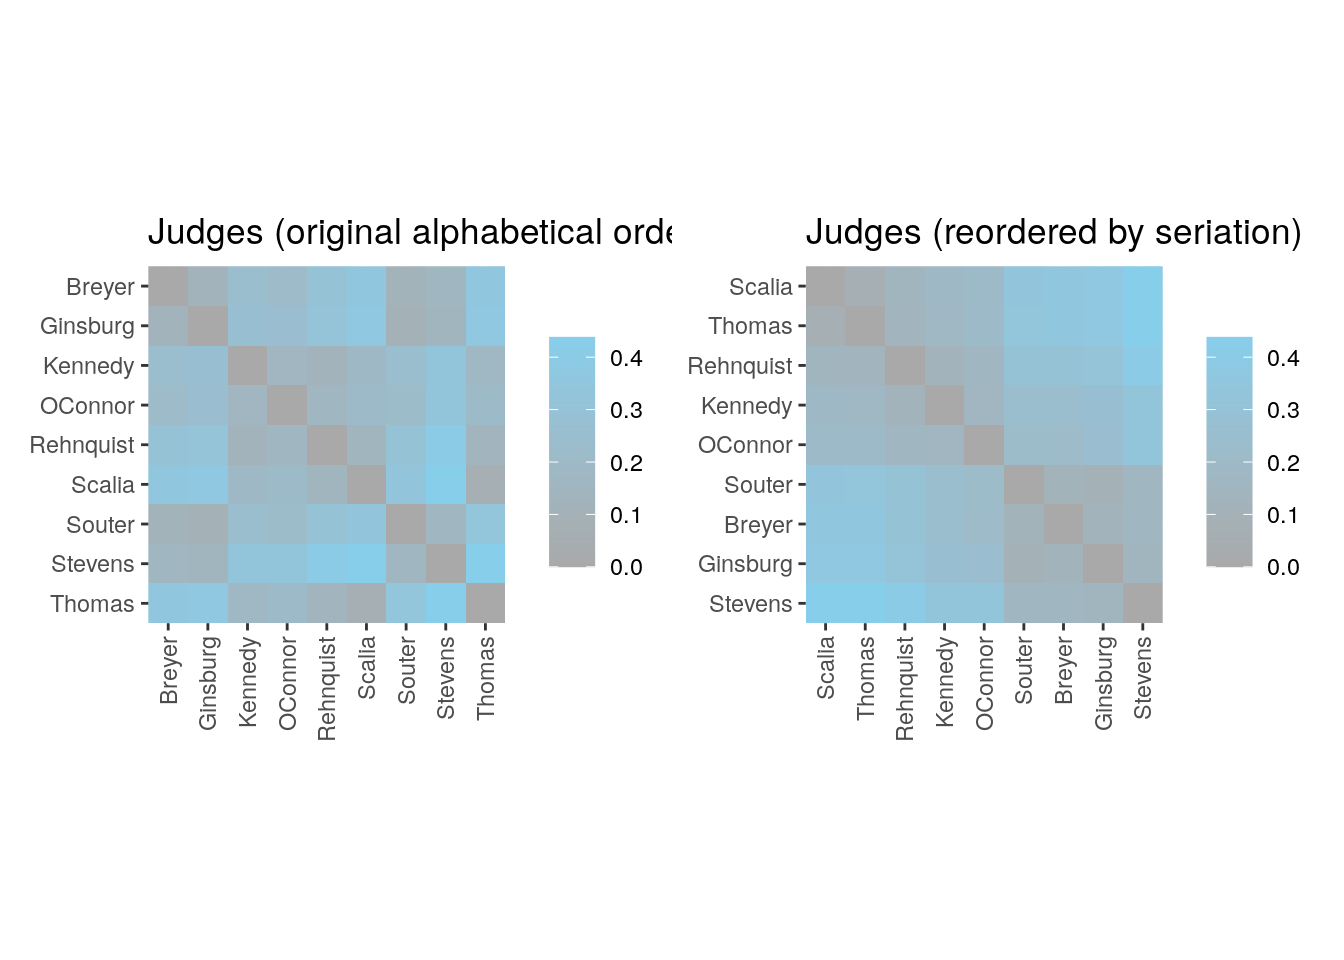
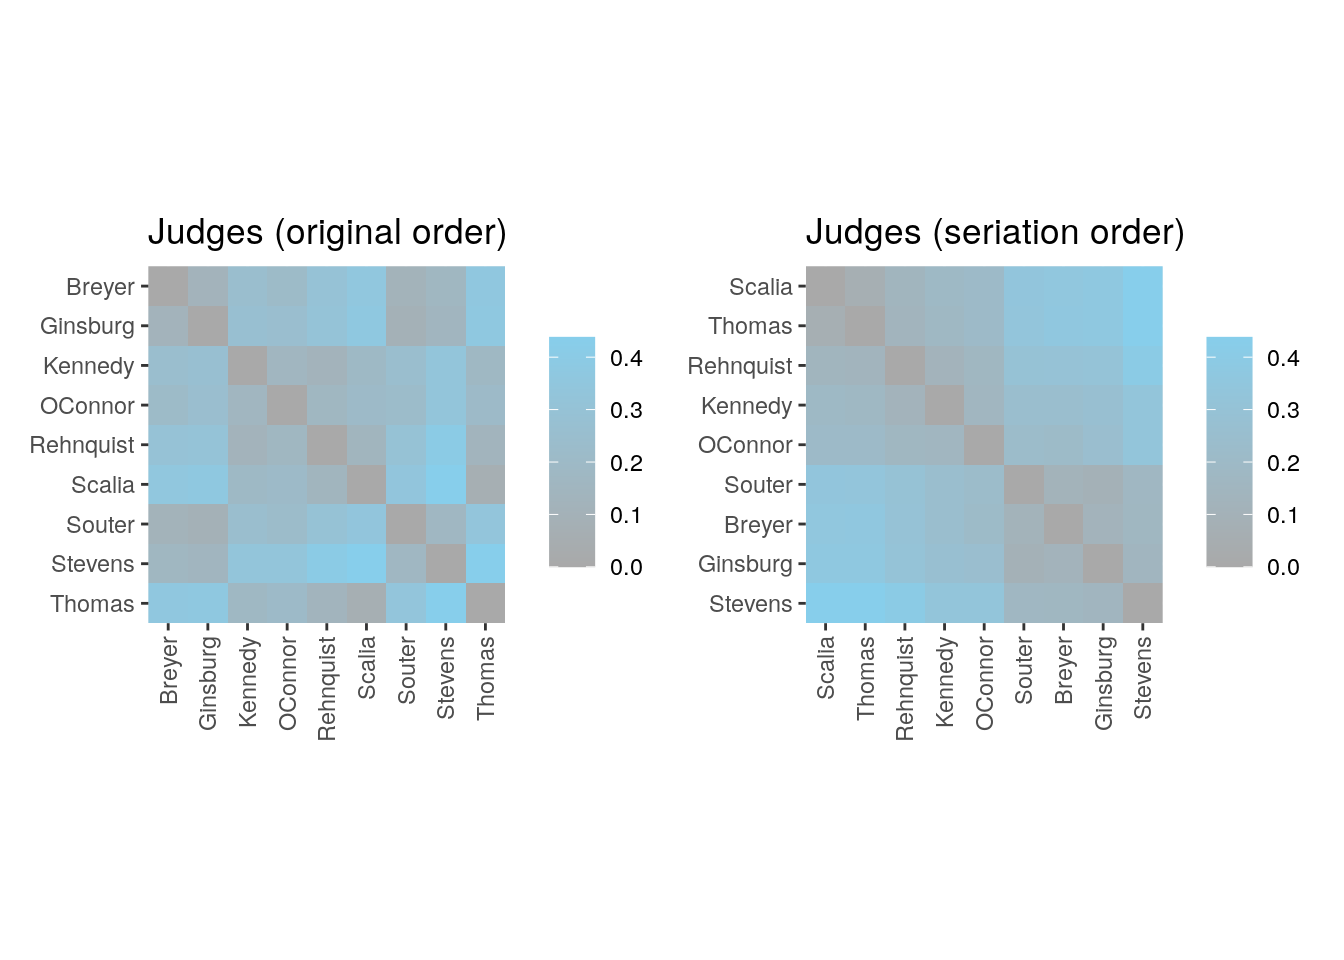
Build site.

Changed region(s): [[0.6875, 0.2188, 0.9688, 0.2812], [0.3125, 0.2188, 0.5, 0.2812]]

diff --git a/docs/seriation.html b/docs/seriation.html
@@ -10,7 +10,7 @@
 
 
 
-<meta name="date" content="2023-10-05" />
+<meta name="date" content="2023-10-11" />
 
 <title>Ordering Objects using Seriation in R</title>
 
@@ -359,7 +359,7 @@ div.tocify {
 
 
 <h1 class="title toc-ignore">Ordering Objects using Seriation in R</h1>
-<h4 class="date">2023-10-05</h4>
+<h4 class="date">2023-10-11</h4>
 
 </div>
 
@@ -388,7 +388,7 @@ class="glyphicon glyphicon-ok text-success" aria-hidden="true"></span>
 <div class="tab-content">
 <div id="summary" class="tab-pane fade in active">
 <p>
-<strong>Last updated:</strong> 2023-10-05
+<strong>Last updated:</strong> 2023-10-11
 </p>
 <p>
 <strong>Checks:</strong> <span
@@ -519,15 +519,15 @@ project makes it easier to run your code on other machines.</p>
 <div class="panel panel-default">
 <div class="panel-heading">
 <p class="panel-title">
-<a data-toggle="collapse" data-parent="#workflowr-checks" href="#strongRepositoryversionstrongahrefhttpsgithubcomdavetangmusetree1e94d2f0b0043b4646604cea852012311e3c68e8targetblank1e94d2fa">
+<a data-toggle="collapse" data-parent="#workflowr-checks" href="#strongRepositoryversionstrongahrefhttpsgithubcomdavetangmusetree06c679a737a37590b2d925ecb680bdae444895ddtargetblank06c679aa">
 <span class="glyphicon glyphicon-ok text-success"
 aria-hidden="true"></span> <strong>Repository version:</strong>
-<a href="https://github.com/davetang/muse/tree/1e94d2f0b0043b4646604cea852012311e3c68e8" target="_blank">1e94d2f</a>
+<a href="https://github.com/davetang/muse/tree/06c679a737a37590b2d925ecb680bdae444895dd" target="_blank">06c679a</a>
 </a>
 </p>
 </div>
 <div
[2 lines of base64/hex data omitted]
 class="panel-collapse collapse">
 <div class="panel-body">
 <p>
@@ -537,7 +537,7 @@ reproducibility.
 </p>
 <p>
 The results in this page were generated with repository version
-<a href="https://github.com/davetang/muse/tree/1e94d2f0b0043b4646604cea852012311e3c68e8" target="_blank">1e94d2f</a>.
+<a href="https://github.com/davetang/muse/tree/06c679a737a37590b2d925ecb680bdae444895dd" target="_blank">06c679a</a>.
 See the <em>Past versions</em> tab to see a history of the changes made
 to the R Markdown and HTML files.
 </p>
@@ -619,6 +619,40 @@ Message
 </tr>
 </thead>
 <tbody>
+<tr>
+<td>
+Rmd
+</td>
+<td>
+<a href="https://github.com/davetang/muse/blob/06c679a737a37590b2d925ecb680bdae444895dd/analysis/seriation.Rmd" target="_blank">06c679a</a>
+</td>
+<td>
+Dave Tang
+</td>
+<td>
+2023-10-11
+</td>
+<td>
+Additional plots
+</td>
+</tr>
+<tr>
+<td>
+html
+</td>
+<td>
+<a href="https://rawcdn.githack.com/davetang/muse/f8124bcc174e677d55681c6cc5db28f281786a0a/docs/seriation.html" target="_blank">f8124bc</a>
+</td>
+<td>
+Dave Tang
+</td>
+<td>
+2023-10-05
+</td>
+<td>
+Build site.
+</td>
+</tr>
 <tr>
 <td>
 Rmd
@@ -713,6 +747,20 @@ Ordering objects using seriation
 </div>
 <div id="introduction" class="section level2">
 <h2>Introduction</h2>
+<p>From the <a href="https://github.com/mhahsler/seriation">seriation R
+package</a>.</p>
+<blockquote>
+<p>Seriation arranges a set of objects into a linear order given
+available data with the goal of revealing structural information. This
+package provides the infrastructure for ordering objects with an
+implementation of many seriation/sequencing/ordination techniques to
+reorder data matrices, dissimilarity matrices, correlation matrices, and
+dendrograms (see below for a complete list). The package provides
+several visualizations (grid and ggplot2) to reveal structural
+information, including permuted image plots, reordered heatmaps, Bertin
+plots, clustering visualizations like dissimilarity plots, and visual
+assessment of cluster tendency plots (VAT and iVAT).</p>
+</blockquote>
 </div>
 <div id="installation" class="section level2">
 <h2>Installation</h2>
@@ -721,6 +769,7 @@ Ordering objects using seriation
   install.packages(&quot;seriation&quot;, repos = c(&quot;https://mhahsler.r-universe.dev&quot;, &quot;https://cloud.r-project.org/&quot;))
 }
 
+library(seriation)
 packageVersion(&quot;seriation&quot;)</code></pre>
 <pre><code>[1] &#39;1.5.1.1&#39;</code></pre>
 </div>
@@ -733,8 +782,7 @@ dataset</a> <code>SupremeCourt</code>, which:</p>
 1995-2002 of the second Rehnquist Supreme Court. Decisions are
 aggregated to the joint probability for disagreement between judges.</p>
 </blockquote>
-<pre class="r"><code>library(seriation)
-data(&quot;SupremeCourt&quot;)
+<pre class="r"><code>data(&quot;SupremeCourt&quot;)
 SupremeCourt</code></pre>
 <pre><code>           Breyer Ginsburg Kennedy OConnor Rehnquist  Scalia  Souter Stevens
 Breyer    0.00000  0.11966 0.25000 0.20940   0.29915 0.35256 0.11752 0.16239
@@ -777,10 +825,10 @@ get_order(my_order)</code></pre>
         8 </code></pre>
 <p>Plot heatmap.</p>
 <pre class="r"><code>p1 &lt;- ggpimage(d, upper_tri = TRUE) +
-  ggtitle(&quot;Judges (original alphabetical order)&quot;)
+  ggtitle(&quot;Judges (original order)&quot;)
 
 p2 &lt;- ggpimage(d, my_order, upper_tri = TRUE) +
-  ggtitle(&quot;Judges (reordered by seriation)&quot;)
+  ggtitle(&quot;Judges (seriation order)&quot;)
 
 p1 + p2 &amp; scale_fill_gradientn(colours = c(&quot;darkgrey&quot;, &quot;skyblue&quot;))</code></pre>
 <p><img src="figure/seriation.Rmd/heatmap-1.png" width="672" style="display: block; margin: auto;" /></p>
@@ -823,11 +871,11 @@ Dave Tang
 </div>
 <p>Return linear configuration where more similar objects are located
 closer to each other.</p>
-<pre class="r"><code>get_config(my_order)</code></pre>
-<pre><code>    Breyer   Ginsburg    Kennedy    OConnor  Rehnquist     Scalia     Souter 
- 0.2362454  0.2814388 -0.1501451 -0.1051162 -0.2656098 -0.4159504  0.2139295 
-   Stevens     Thomas 
- 0.6129974 -0.4077896 </code></pre>
+<pre class="r"><code>sort(get_config(my_order))</code></pre>
+<pre><code>    Scalia     Thomas  Rehnquist    Kennedy    OConnor     Souter     Breyer 
+-0.4159504 -0.4077896 -0.2656098 -0.1501451 -0.1051162  0.2139295  0.2362454 
+  Ginsburg    Stevens 
+ 0.2814388  0.6129974 </code></pre>
 <p>Plot linear configuration.</p>
 <pre class="r"><code>plot_config(my_order)</code></pre>
 <p><img src="figure/seriation.Rmd/plot_config-1.png" width="672" style="display: block; margin: auto;" /></p>
@@ -868,6 +916,9 @@ Dave Tang
 </table>
 </div>
 </div>
+<p>Hierarchical cluster with average linkage.</p>
+<pre class="r"><code>plot(hclust(d, method = &quot;average&quot;))</code></pre>
+<p><img src="figure/seriation.Rmd/hclust-1.png" width="672" style="display: block; margin: auto;" /></p>
 </div>
 <div id="heatmaps-with-seriation" class="section level2">
 <h2>Heatmaps with seriation</h2>
@@ -893,8 +944,8 @@ AI161629  1.5917360  1.0212036 -0.1519370 -1.3543136 -2.7099315 -1.3129411</code
 <p>Methods of interest for heatmaps are dendrogram leaf order-based
 methods applied to rows and columns. This is done using
 <code>method = "heatmap"</code>. The actual seriation method can be
-passed on as parameter seriaton_method, but it has a suitable default if
-it is omitted.</p>
+passed on as parameter seriation_method, but it has a suitable default
+if it is omitted.</p>
 <pre class="r"><code>wood_hc_complete &lt;- seriate(Wood, method = &quot;Heatmap&quot;, seriation_method = &quot;HC_complete&quot;)
 wood_olo_complete &lt;- seriate(Wood, method = &quot;Heatmap&quot;, seriation_method = &quot;OLO_complete&quot;)
 get_order(wood_olo_complete)</code></pre>
@@ -940,6 +991,18 @@ values in <code>Wood</code>, I get their expression data.</p>
 <pre><code>                 P         A         B         C          D         E
 AI165492 -0.825104 0.1972707 0.4277217 0.7228185 -0.8326557 -2.503835
 AI166057 -1.005708 0.5118941 0.7032220 0.6993795 -1.1373152 -2.562734</code></pre>
+<p>We can clearly see the similar expression patterns for these subset
+of genes.</p>
+<pre class="r"><code>Wood[get_order(wood_olo_complete)[1:6], ] |&gt;
+  as.data.frame() |&gt;
+  tibble::rownames_to_column(&#39;gene&#39;) |&gt;
+  tidyr::pivot_longer(-gene) |&gt;
+  ggplot(data = _, aes(name, value, group = gene, colour = gene)) +
+  geom_line() +
+  geom_point() +
+  theme_minimal() +
+  labs(title = &quot;Genes with similar expression patterns&quot;, y = &quot;Normalised expression&quot;, x = &quot;location&quot;)</code></pre>
+<p><img src="figure/seriation.Rmd/plot_eg-1.png" width="672" style="display: block; margin: auto;" /></p>
 <p><code>wood_olo_complete</code> is also a <code>hclust</code>.</p>
 <pre class="r"><code>class(wood_olo_complete[[1]])</code></pre>
 <pre><code>[1] &quot;ser_permutation_vector&quot; &quot;hclust&quot;                </code></pre>
@@ -947,6 +1010,43 @@ AI166057 -1.005708 0.5118941 0.7032220 0.6993795 -1.1373152 -2.562734</code></pr
 <pre class="r"><code>as.dendrogram(wood_olo_complete[[1]]) %&gt;%
   plot(horiz = TRUE)</code></pre>
 <p><img src="figure/seriation.Rmd/unnamed-chunk-1-1.png" width="1344" style="display: block; margin: auto;" /></p>
+<p>
+<button type="button" class="btn btn-default btn-xs btn-workflowr btn-workflowr-fig" data-toggle="collapse" data-target="#fig-unnamed-chunk-1-1">
+Past versions of unnamed-chunk-1-1.png
+</button>
+</p>
+<div id="fig-unnamed-chunk-1-1" class="collapse">
+<div class="table-responsive">
+<table class="table table-condensed table-hover">
+<thead>
+<tr>
+<th>
+Version
+</th>
+<th>
+Author
+</th>
+<th>
+Date
+</th>
+</tr>
+</thead>
+<tbody>
+<tr>
+<td>
+<a href="https://github.com/davetang/muse/blob/f8124bcc174e677d55681c6cc5db28f281786a0a/docs/figure/seriation.Rmd/unnamed-chunk-1-1.png" target="_blank">f8124bc</a>
+</td>
+<td>
+Dave Tang
+</td>
+<td>
+2023-10-05
+</td>
+</tr>
+</tbody>
+</table>
+</div>
+</div>
 <p>Gene order of the dendrogram matches the order produced by seriation
 using OLO complete.</p>
 <pre class="r"><code>o &lt;- wood_olo_complete[[1]]$order
